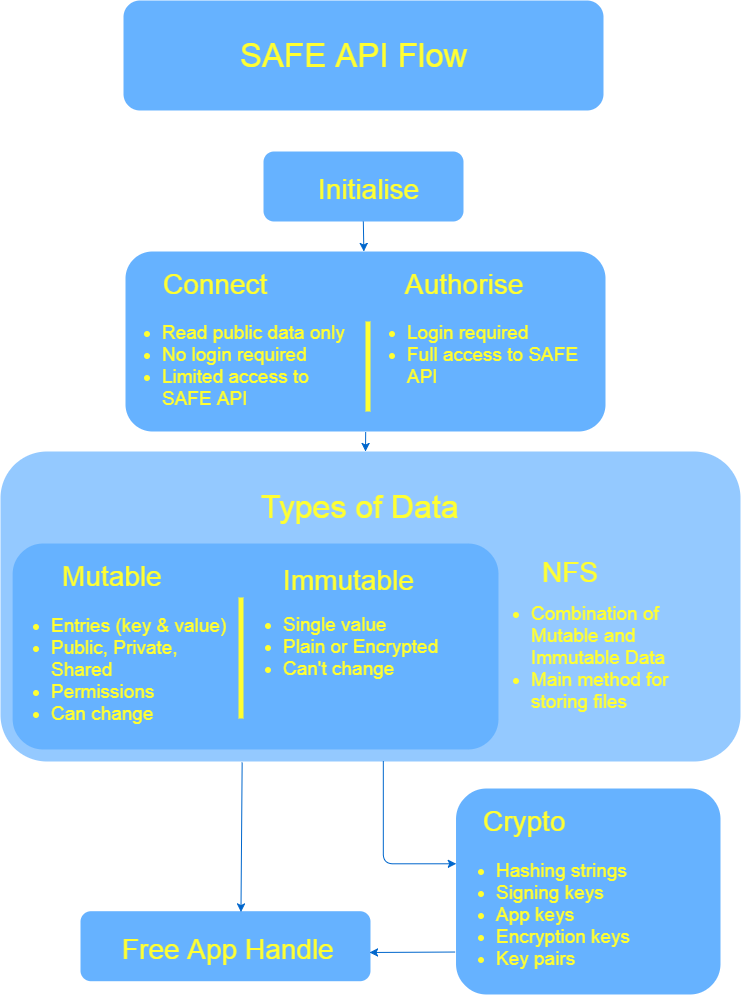
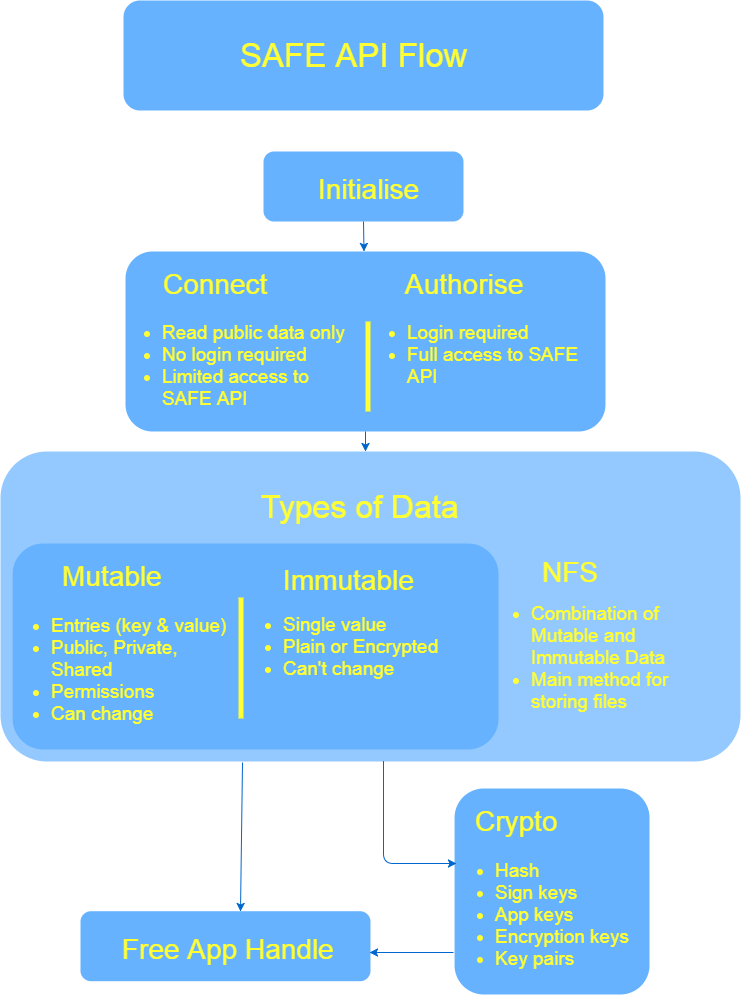
start of  crypto + improvements

diff --git a/index.md b/index.md
@@ -9,12 +9,14 @@ SAFE API Documentation
 - [JavaScript docs ](http://docs.maidsafe.net/beaker-plugin-safe-app/)
 
 
-Explanations of the SAFE Network by the community:
+Documentation and explanations of the SAFE Network by the community:
 - [The SAFE Network Primer]
 - [SAFE Network Architecture ](https://safe-network-explained.github.io/architecture)
 - [The Documentation Topic ](https://safenetforum.org/t/the-documentation-topic/16149)
 - [Introduction to the SAFE Network
 ](https://medium.com/@luandro/introduction-to-the-safe-network-33d8641b2dee)
+- [Developing for the SAFE Browser
+](https://medium.com/@luandro/developing-for-the-safe-browser-212decd575a3)
 
 ## SAFE Browser and the Authenticator
 
@@ -35,20 +37,20 @@ TODO: Needs to be verified
 
 The SAFE API uses handles frequently. A handle is a reference to a resource. An example of a resource can be an authentication token (App Handle) or the location of a Mutable Data Structure (Mutable Data Handle). These handles are different for each session.
 
-When you free a handle the reference is freed from memory and you are then able to make another handle of the same type of resource.
+It is recommended to free handles when they are no longer needed or in use.
 
-### Initialising
+### Initialise
 TODO: Needs to be verified
 
 The first step to interact with the SAFE Network is to initialise your application. You need to pass information about your application to the API, App ID, Name and Vendor.
 
 
-### Connecting and Authorising
+### Connect and Authorise
 TODO: Needs to be verified
 
 There are two network states in the SAFE API: Connected and Authorised.
 
- The user doesn't need to be signed in to connect. When you are connected you can 'READ', this means you can only read Public data and aren't able to preform actions such as: uploading to a Immutable or Mutable Data Structure, modifying entries, inserting permissions or getting Keys.
+The user doesn't need to be signed in to connect. When you are connected you can 'READ', this means you can only read Public data and aren't able to preform actions such as: uploading to a Immutable or Mutable Data Structure, modifying entries, inserting permissions or getting Keys.
 
 The user needs to be signed to authorise. To authorise you need to specify which containers and permissions your app wants to access and whether you would like to use your own App Container. When you are authorised you have full access to the SAFE API and are able to preform all actions.
 
@@ -175,11 +177,42 @@ All data stored in these containers are stored randomly on the Network should be
 The app container is created for websites if they request their to have own container with their ID being used to identify it. This means the app container name looks like `apps/id.example.net`.
 
 ## Cryptography and Keys
-TODO
+ TODO: Still in progress
+ <br>TODO: Needs to be verified
+ <br>TODO: Maybe flowchart
+<br>TODO: Is App Public unique to user and app?
+<br>TODO: Use cases and examples
+<br>[Sodium crypto library docs](https://download.libsodium.org/doc/)
+
+### Hash
+This is a 32 length string which is derived from an input of data such as a file or a string. This is not unique to the user i.e. if I hash 'hello world' and you hash 'hello world' we will both get the same value back.
+
+### Sign Keys
+#### App Public
+This is a sign key derived from the application info and doesn't require input. This is unique.
+####  Raw
+This is a key to the user derived from an input of data such as a file or a string. This is unique.
+
+### Encryption Key
+
+#### App Public
+This is a public key derived from the application info and doesn't require input. This enables users to send you encrypted data. This is unique.
+
+#### Raw
+This is a public key derived from an input of data such as a file or a string. This enables users to send you encrypted data. This is unique.
+
+### Key pairs
+This is asymmetric encryption which requires 2 different keys that are linked together by a mathematical relationship.
+#### Public Encryption Key
+#### Secret Encryption Key
+
 
 ## DNS (Domain Name System)
+TODO: Explain thoroughly
 
- DNS is the method websites are located on the SAFE Network. It works by using Mutable Data and NFS to store and locate files. The Web Hosting Manager and SAFE Browser overview below go into more detail about DNS as they both use DNS extensively.
+DNS is the method websites are located on the SAFE Network using SAFE URLs. A SAFE URL consists of a URL that looks  like this: `safe://servicename.publicid`.
+
+It works by using Mutable Data to locate stored NFS files. The Web Hosting Manager and SAFE Browser Overviews below go into more detail of how DNS works.
 
 ## Mechanics of SAFE Applications
 
@@ -195,7 +228,7 @@ You will then be asked to create a Web Service Name. Once you enter in a name a 
 
 Then a new entry will be created and saved to our Public ID's Mutable Data Structure with the Web Service Name as its key and the Random Mutable Data name as its value.
 
-Once you upload an index.html to your web service you will be then able to navigate to your own website, it will have a URL which looks something like this: `safe://servicename.publicid`
+Once you upload an index.html to your web service you will be then able to navigate to your own website with its SAFE URL.
 
 #### SAFE Browser
 
